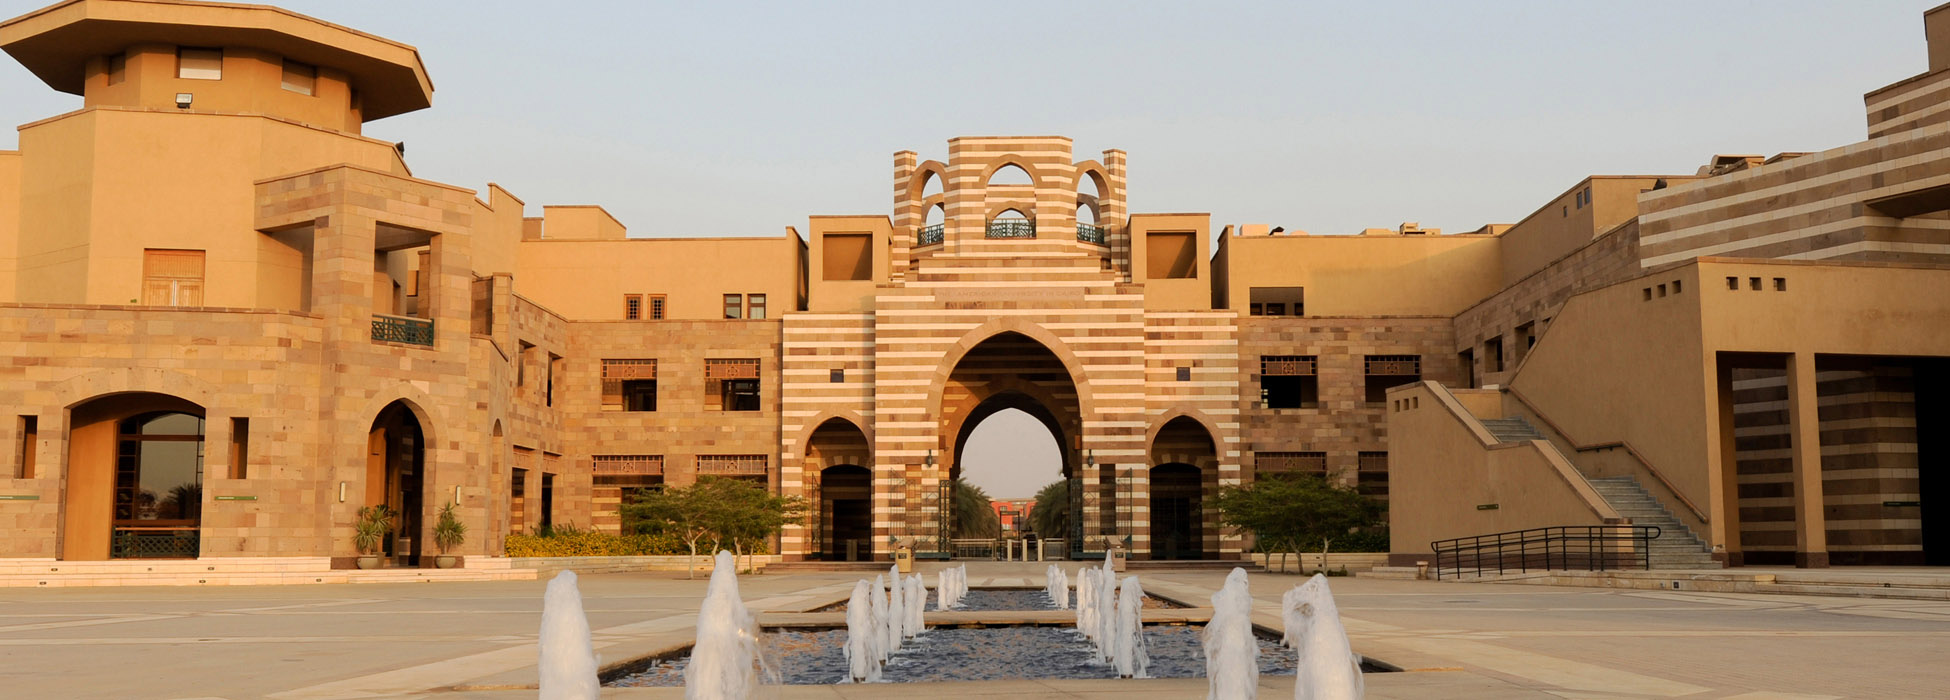
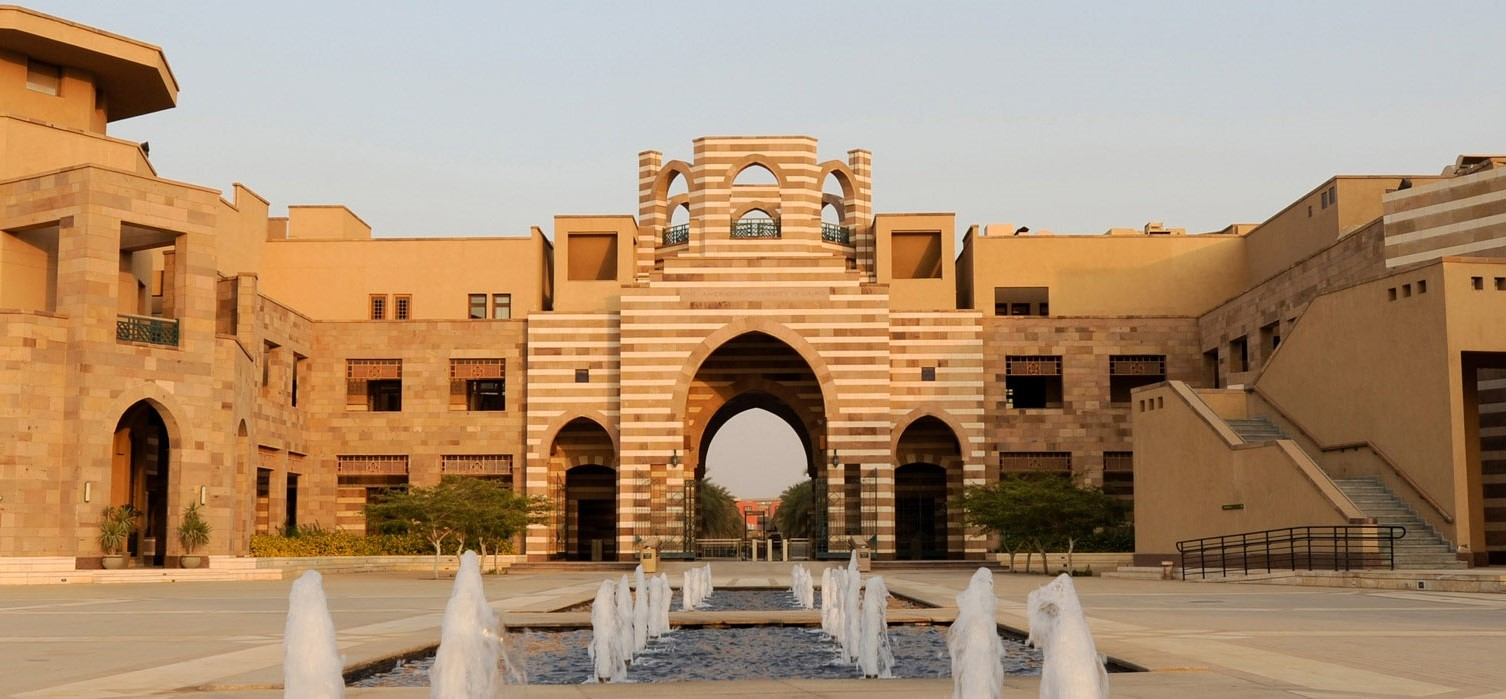
Removed unnecessary widgets and fixed background to center

diff --git a/src/components/esri/Map.js b/src/components/esri/Map.js
@@ -88,44 +88,10 @@ class Map extends Component {
 
   setupWidgetsAndLayers() {
     loadModules([
-      'esri/widgets/BasemapGallery',
-      'esri/widgets/Expand',
-      'esri/widgets/LayerList',
-      'dojo/on',
     ])
     .then( ([
-      BasemapGallery,
-      Expand,
-      LayerList,
-      on,
     ]) => {
-      let basemapGallery = new BasemapGallery({
-        view: this.view,
-        container: document.createElement("div")
-      });
-      let layerList = new LayerList({
-        view: this.view,
-        container: document.createElement("div")
-      })
-      this.bgExpand = new Expand({
-        view: this.view,
-        content: basemapGallery.container,
-        id: 'map-basemapgallery-expand',
-        expandIconClass: 'esri-icon-basemap'
-      });
-      this.llExpand = new Expand({
-        view: this.view,
-        content: layerList.container,
-        id: 'map-layerlist-expand',
-        expandIconClass: 'esri-icon-layers'
-      });
       this.view.ui.move("zoom", "bottom-right");
-      this.view.ui.add(this.bgExpand, {
-        position: "bottom-right"
-      });
-      this.view.ui.add(this.llExpand, {
-        position: "bottom-right"
-      });
 
       window.view = this.view;
       this.view.constraints.rotationEnabled = false;
